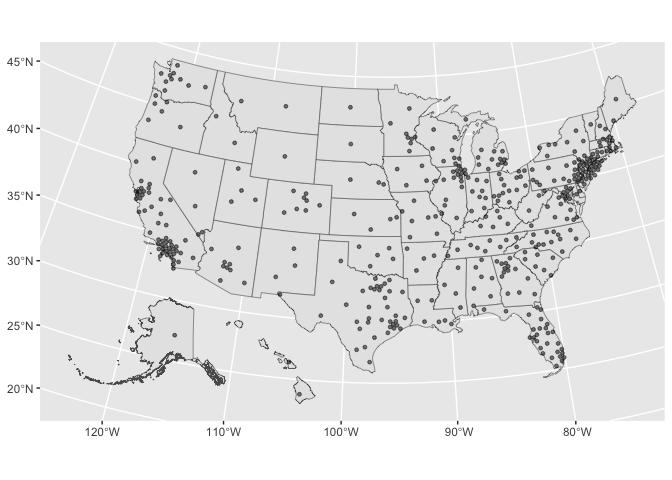
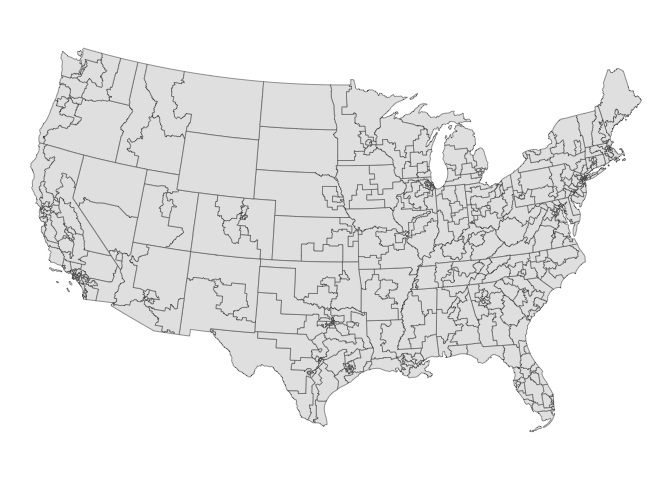
Full readme

diff --git a/README.md b/README.md
@@ -3,14 +3,14 @@
 
 # cdmap
 
+Maintainer: Shiro Kuriwaki
+
 <!-- badges: start -->
 
 <!-- badges: end -->
 
-cdmap is a package that provides a shapefile in hexagonal form as
-inspired by the Daily Kos map style. It also provides descriptive names
-for each district, as inspired by [Daily
-Kos](https://www.dailykos.com/stories/2022/8/8/2113098/-The-Daily-Kos-Elections-naming-guide-to-this-decade-s-new-congressional-districts).
+cdmap is a package that provides shapefiles and other data for
+congressional districts, 2006-2025.
 
 ## Installation
 
@@ -22,34 +22,95 @@ You can install the development version of cdmap from
 remotes::install_github("kuriwaki/cdmap")
 ```
 
-If you have the repository on your computer, you can open the Rstudio
-Project (.Rproj) and use devtools:
-
-``` r
-devtools::load_all()
-```
-
-`load_all` is a fast way to get your changes implemented. To fully
-install the changes installed and working across sessions, you will need
-to install.
-
-``` r
-devtools::install()
-```
-
-Read more about the terms and customs for making a R package at
-<https://r-pkgs.org/>.
-
 ## Example
 
-The main output of the package is a dataset, which comes pre-loaded with
+The main output of the package are datasets which comes pre-loaded with
 the package.
 
 ``` r
 library(cdmap)
 ```
 
-The package names the shapefiles by the year of the congress.
+We are building several types of maps. First, the **dotmap** is where
+one CD is treated as point. We use the centroid of the actual map, and
+dodge it so that crowded points do not completely overlap with each
+other.
+
+``` r
+library(sf)
+#> Linking to GEOS 3.13.0, GDAL 3.8.5, PROJ 9.5.1; sf_use_s2() is TRUE
+library(ggplot2)
+
+shp_dot_2023 |>
+  ggplot() +
+  geom_sf(data = shp_states) +
+  geom_sf(size = 1, alpha = 0.5) +
+  theme_void()
+```
+
+<img src="man/figures/README-unnamed-chunk-2-1.png" width="100%" />
+
+We are currently working on providing **hexmaps** (i.e., maps that
+present CDs as combinations of hexagons) for all years. A 2016-era
+version of these versions are provided in
+<https://github.com/kuriwaki/donnermap> and the Downballot links
+recorded there.
+
+``` r
+library(donnermap) # remotes::install_github("kuriwaki/donnermap")
+
+ggplot(cd_shp) + 
+  geom_sf() + 
+  theme_void() +
+  labs(caption = "Map Source: http://dkel.ec/map")
+```
+
+<img src="man/figures/README-unnamed-chunk-3-1.png" width="100%" />
+
+We do not store actual CD shapefiles, but we provide a function to draw
+these from either the Census or Jeff Lewis’s historical shapefiles.
+
+``` r
+cd_shps <- load_cd_shps(c = 118)
+#>   |                                                                              |                                                                      |   0%  |                                                                              |                                                                      |   1%  |                                                                              |==                                                                    |   3%  |                                                                              |====                                                                  |   5%  |                                                                              |====                                                                  |   6%  |                                                                              |=====                                                                 |   7%  |                                                                              |======                                                                |   9%  |                                                                              |=======                                                               |  10%  |                                                                              |=======                                                               |  11%  |                                                                              |========                                                              |  12%  |                                                                              |=========                                                             |  13%  |                                                                              |===========                                                           |  15%  |                                                                              |===========                                                           |  16%  |                                                                              |=============                                                         |  18%  |                                                                              |==============                                                        |  19%  |                                                                              |==============                                                        |  21%  |                                                                              |===============                                                       |  22%  |                                                                              |================                                                      |  22%  |                                                                              |================                                                      |  24%  |                                                                              |=================                                                     |  25%  |                                                                              |===================                                                   |  27%  |                                                                              |===================                                                   |  28%  |                                                                              |=====================                                                 |  30%  |                                                                              |=====================                                                 |  31%  |                                                                              |======================                                                |  32%  |                                                                              |=======================                                               |  33%  |                                                                              |========================                                              |  34%  |                                                                              |========================                                              |  35%  |                                                                              |==========================                                            |  37%  |                                                                              |===========================                                           |  39%  |                                                                              |=============================                                         |  41%  |                                                                              |=============================                                         |  42%  |                                                                              |==============================                                        |  43%  |                                                                              |===============================                                       |  44%  |                                                                              |================================                                      |  45%  |                                                                              |================================                                      |  46%  |                                                                              |=================================                                     |  47%  |                                                                              |==================================                                    |  48%  |                                                                              |==================================                                    |  49%  |                                                                              |===================================                                   |  50%  |                                                                              |====================================                                  |  51%  |                                                                              |=====================================                                 |  52%  |                                                                              |=====================================                                 |  53%  |                                                                              |======================================                                |  54%  |                                                                              |=======================================                               |  55%  |                                                                              |=========================================                             |  59%  |                                                                              |============================================                          |  63%  |                                                                              |===============================================                       |  67%  |                                                                              |================================================                      |  69%  |                                                                              |===================================================                   |  73%  |                                                                              |======================================================                |  77%  |                                                                              |=========================================================             |  81%  |                                                                              |============================================================          |  85%  |                                                                              |===============================================================       |  89%  |                                                                              |=================================================================     |  93%  |                                                                              |====================================================================  |  97%  |                                                                              |======================================================================| 100%
+
+cd_shps |> 
+  # remove Alaska and Hawaii for now
+  dplyr::filter(!STATEFP %in% c("15", "02")) |>  
+  ggplot() +
+  geom_sf() + 
+  theme_void()
+```
+
+<img src="man/figures/README-unnamed-chunk-4-1.png" width="100%" />
+
+We also provide a dataset of the **descriptive names** of each district
+(e.g., calling AZ-01 in the 110th congressional district “Phoenix
+exurbs, Prescott, and Flagstaff”). These are inspired by [Daily
+Kos](https://www.dailykos.com/stories/2022/8/8/2113098/-The-Daily-Kos-Elections-naming-guide-to-this-decade-s-new-congressional-districts).
+
+``` r
+info_2007
+#> # A tibble: 435 × 3
+#>     cong cd    cd_description                                
+#>    <dbl> <chr> <chr>                                         
+#>  1   110 AK-01 All of Alaska                                 
+#>  2   110 AL-01 Southern Alabama                              
+#>  3   110 AL-02 Southeast Alabama                             
+#>  4   110 AL-03 East-central Alabama                          
+#>  5   110 AL-04 North-central Alabama                         
+#>  6   110 AL-05 Northern Alabama                              
+#>  7   110 AL-06 Birmingham and Tuscaloose suburbs             
+#>  8   110 AL-07 Birmingham, Tuscaloosa, and western Black Belt
+#>  9   110 AR-01 Northeastern Arkansas                         
+#> 10   110 AR-02 Greater Little Rock                           
+#> # ℹ 425 more rows
+```
+
+## Data format
+
+We name the datasets (`shp_dot_**`, `info_**`) by the year of the
+congress.
 
 | Object    | Congress | Years in Session | Year Elected | Year up for Election |
 |-----------|----------|------------------|--------------|----------------------|
@@ -64,59 +125,3 @@ The package names the shapefiles by the year of the congress.
 | `**_2021` | 117th    | 2021-2022        | 2020         | 2022                 |
 | `**_2023` | 118th    | 2023-2024        | 2022         | 2024                 |
 | `**_2025` | 119th    | 2025-2026        | 2024         | 2026                 |
-
-We are building several types of maps. The **dotmap** is where one CD is
-treated as point. We use the centeroid of the actual map, and dodge it
-so that crowded points do not completely overlap with each other.
-
-``` r
-library(sf)
-#> Linking to GEOS 3.13.0, GDAL 3.8.5, PROJ 9.5.1; sf_use_s2() is TRUE
-library(ggplot2)
-
-shp_dot_2023 |>
-  ggplot() +
-  geom_sf(data = shp_states) +
-  geom_sf(size = 1, alpha = 0.5)
-```
-
-<img src="man/figures/README-unnamed-chunk-4-1.png" width="100%" />
-
-Another is a hexmap, where each district is shown as a combination of
-hexagons. This is inspired by the DailyKos format. For now, one test
-dataset available.
-
-``` r
-c2009_shp
-#> Simple feature collection with 435 features and 4 fields
-#> Active geometry column: geometry
-#> Geometry type: GEOMETRY
-#> Dimension:     XY
-#> Bounding box:  xmin: -2682394 ymin: -23773.04 xmax: 2541702 ymax: 3908262
-#> Projected CRS: NAD83 / Conus Albers
-#> First 10 features:
-#>       cd state district                                        descrip
-#> 1  AK-01    AK        1                                  All of Alaska
-#> 2  AL-01    AL        1                               Southern Alabama
-#> 3  AL-02    AL        2                              Southeast Alabama
-#> 4  AL-03    AL        3                           East-central Alabama
-#> 5  AL-04    AL        4                          North-central Alabama
-#> 6  AL-05    AL        5                               Northern Alabama
-#> 7  AL-06    AL        6              Birmingham and Tuscaloose suburbs
-#> 8  AL-07    AL        7 Birmingham, Tuscaloosa, and western Black Belt
-#> 9  AR-01    AR        1                          Northeastern Arkansas
-#> 10 AR-02    AR        2                            Greater Little Rock
-#>                          geometry                    center
-#> 1  POLYGON ((-2681792 608199.3... POINT (-2554623 660630.1)
-#> 2  POLYGON ((560812.3 712038.7... POINT (576211.9 791297.6)
-#> 3  POLYGON ((749626.4 816329.6... POINT (686695.9 885543.9)
-#> 4  POLYGON ((639697.2 959713, ... POINT (633454.5 998615.8)
-#> 5  POLYGON ((485800.6 1003661,...  POINT (512519.9 1055698)
-#> 6  POLYGON ((666169.5 1076799,...  POINT (593926.3 1100898)
-#> 7  POLYGON ((577942.1 955522.2... POINT (538527.9 938058.6)
-#> 8  POLYGON ((476010.1 839899.4... POINT (560392.8 863243.3)
-#> 9  POLYGON ((5703.468 1040718,...  POINT (-15946.5 1114678)
-#> 10 POLYGON ((-42911.85 1024085... POINT (-90424.92 1054591)
-```
-
-<img src="man/figures/README-geomsf-1.png" width="100%" />
